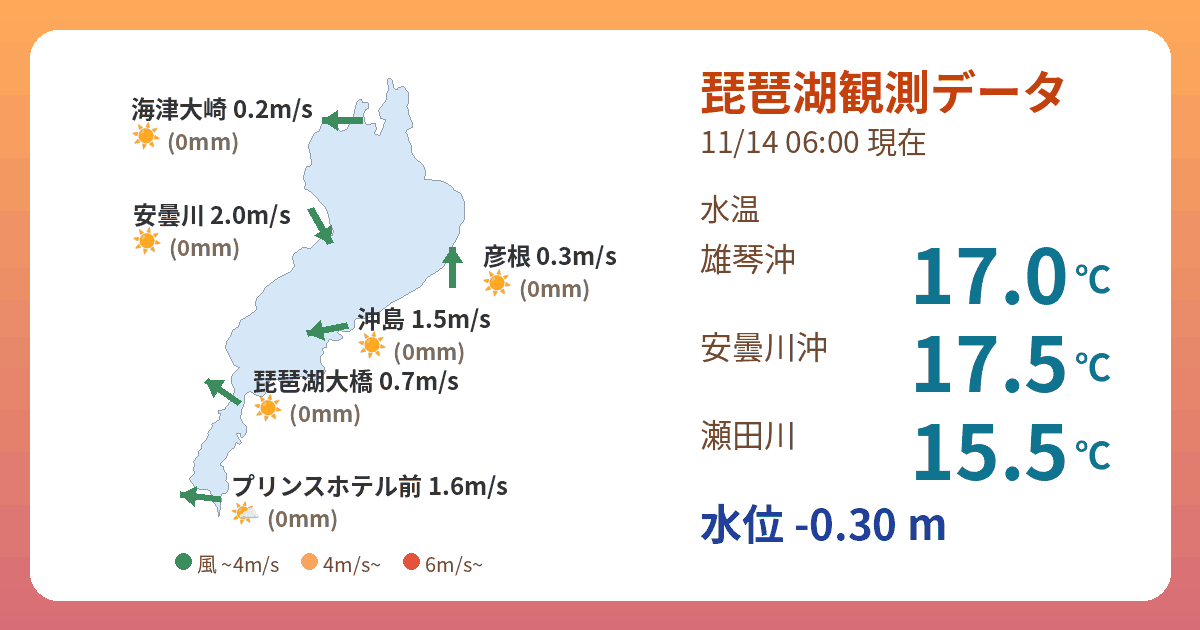
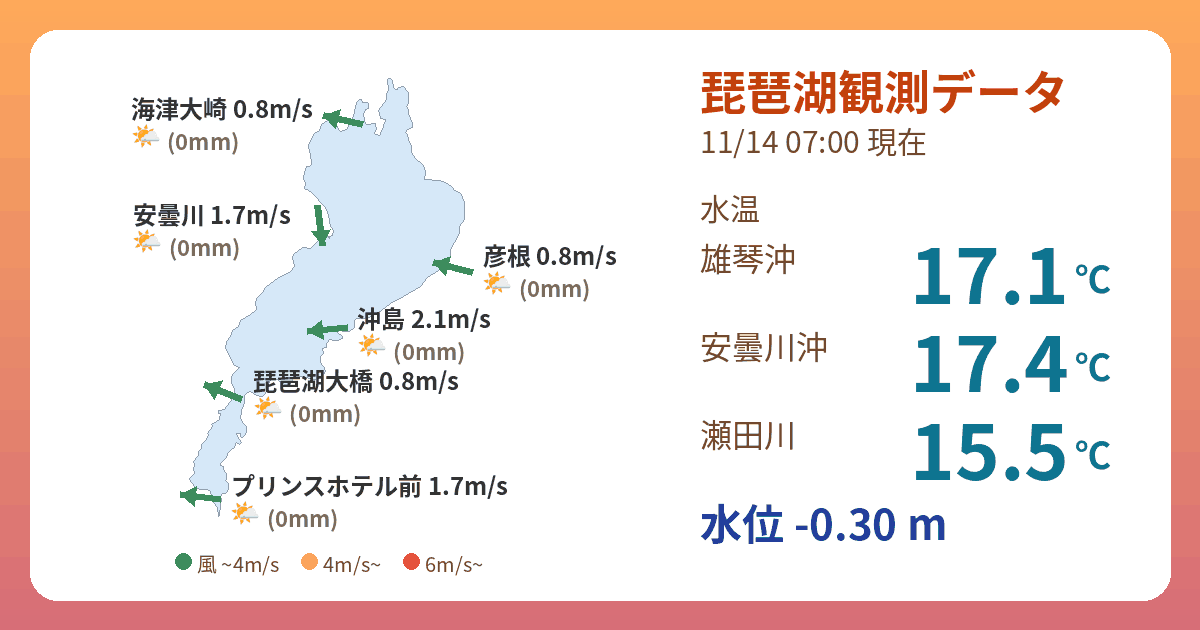
update data

diff --git a/share.html b/share.html
@@ -1,16 +1,16 @@
 <!doctype html>
 <html lang="ja"><head><meta charset="utf-8">
-<title>琵琶湖観測データ 11/14 06:00現在</title>
+<title>琵琶湖観測データ 11/14 07:00現在</title>
 <meta name="viewport" content="width=device-width,initial-scale=1">
 <meta property="og:type" content="website">
-<meta property="og:title" content="琵琶湖観測データ 11/14 06:00現在">
-<meta property="og:description" content="水温 雄琴沖17.0℃ 安曇川沖17.5℃ 瀬田川15.5℃ / 水位 -0.30m">
-<meta property="og:image" content="https://biwafishing.github.io/biwako-opendata/share.png?v=202611140600">
+<meta property="og:title" content="琵琶湖観測データ 11/14 07:00現在">
+<meta property="og:description" content="水温 雄琴沖17.1℃ 安曇川沖17.4℃ 瀬田川15.5℃ / 水位 -0.30m">
+<meta property="og:image" content="https://biwafishing.github.io/biwako-opendata/share.png?v=202611140700">
 <meta property="og:url" content="https://biwafishing.github.io/biwako-opendata/">
 <meta name="twitter:card" content="summary_large_image">
-<meta name="twitter:title" content="琵琶湖観測データ 11/14 06:00現在">
-<meta name="twitter:description" content="水温 雄琴沖17.0℃ 安曇川沖17.5℃ 瀬田川15.5℃ / 水位 -0.30m">
-<meta name="twitter:image" content="https://biwafishing.github.io/biwako-opendata/share.png?v=202611140600">
+<meta name="twitter:title" content="琵琶湖観測データ 11/14 07:00現在">
+<meta name="twitter:description" content="水温 雄琴沖17.1℃ 安曇川沖17.4℃ 瀬田川15.5℃ / 水位 -0.30m">
+<meta name="twitter:image" content="https://biwafishing.github.io/biwako-opendata/share.png?v=202611140700">
 <meta http-equiv="refresh" content="0; url=https://biwafishing.github.io/biwako-opendata/">
 </head><body><p><a href="https://biwafishing.github.io/biwako-opendata/">琵琶湖観測データを開く</a></p>
 <script>location.replace("https://biwafishing.github.io/biwako-opendata/")</script></body></html>
